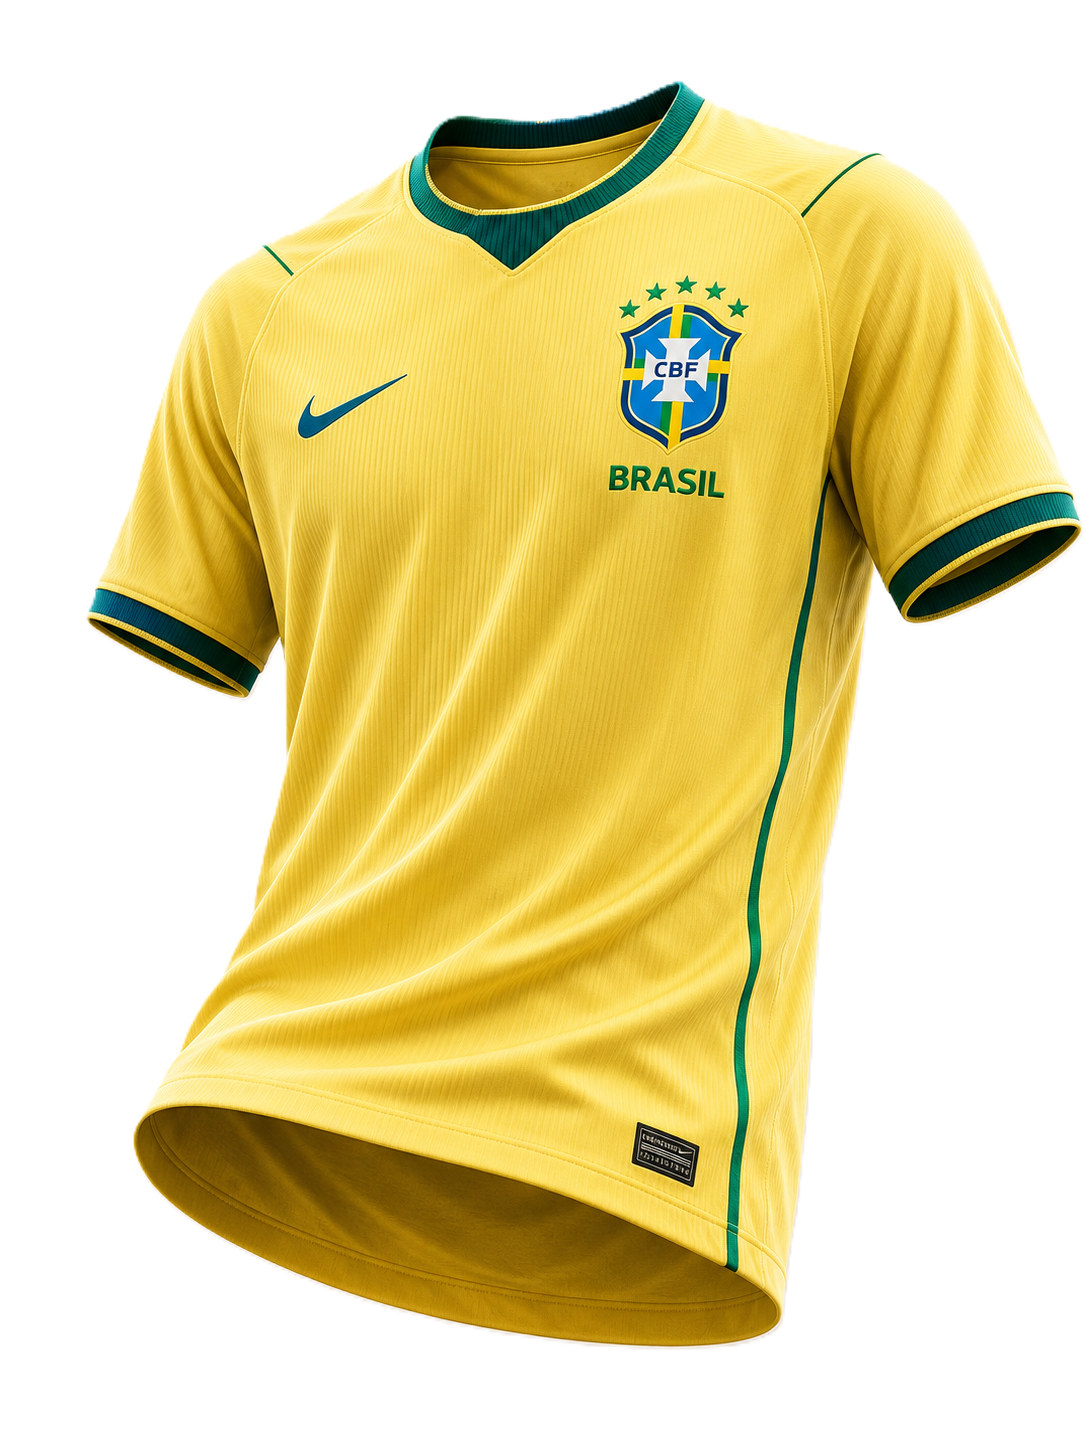
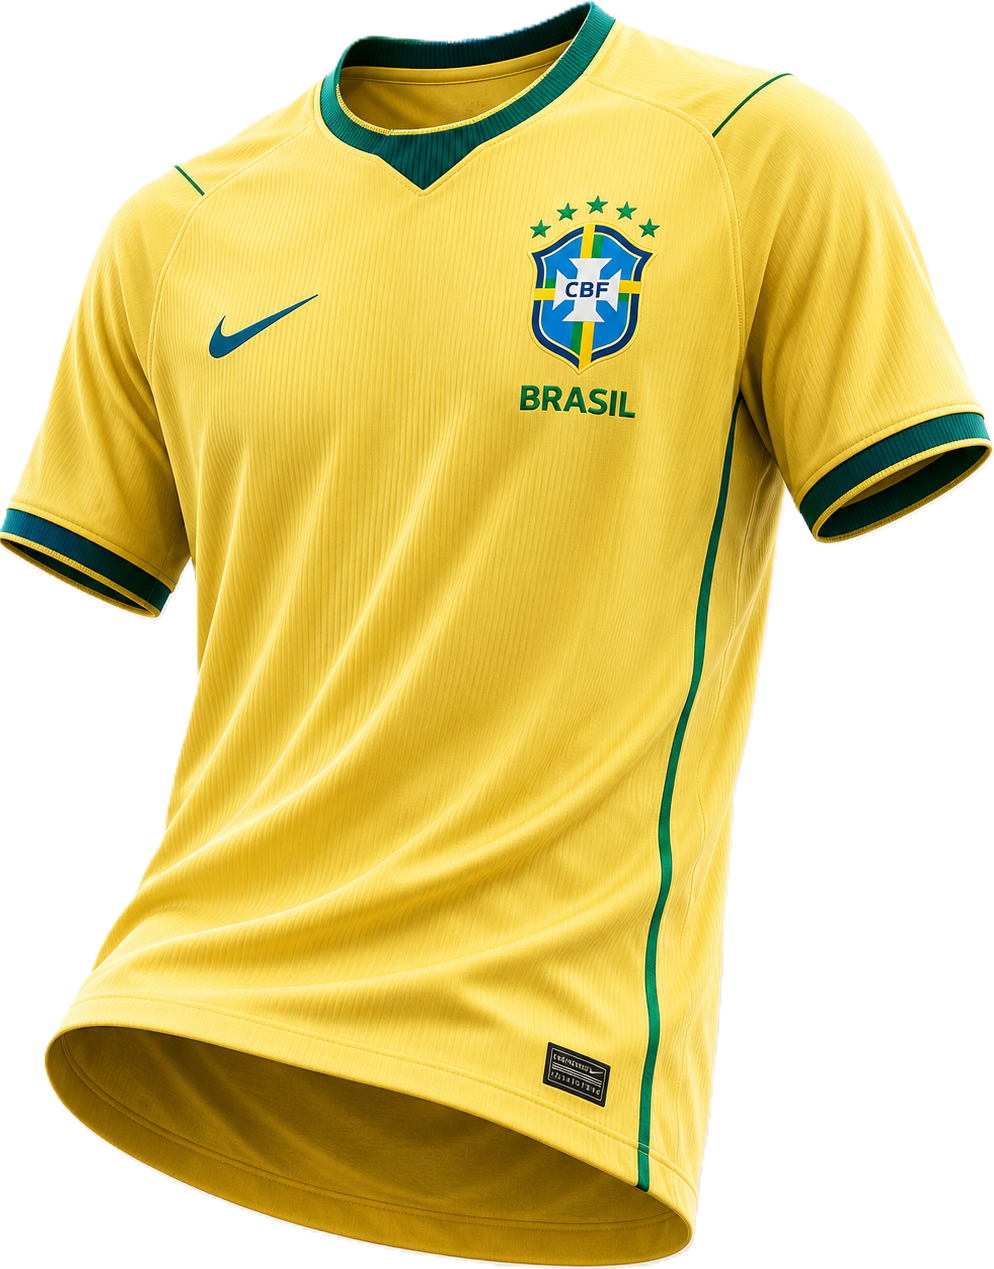
Camiseta preta

diff --git a/css/style.css b/css/style.css
@@ -560,9 +560,9 @@ img {
 
   /* Move a camiseta apenas para baixo */
   .hero-shirt {
-    top: 120px;
-    right: -5px;
-    width: min(650px, 50vw);
+    top: 180px;
+    right: -25px;
+    width: min(950px, 80vw);
   }
 
   /* Selo acompanha melhor a nova posição da camiseta */
@@ -638,7 +638,7 @@ img {
   left: 35px;
   top: auto;
   bottom: -20px;
-  width: min(575px, 49vw);
+  width: min(475px, 49vw);
   filter: drop-shadow(0 28px 32px rgba(0, 0, 0, 0.48));
   animation: none !important;
   transform: none !important;
@@ -759,3 +759,182 @@ img {
     inset 0 1px 0 rgba(255, 255, 255, 0.42);
 }
 
+/* Camisa Preta */
+
+.black-shirt-section {
+  position: relative;
+  overflow: hidden;
+  min-height: 300px;
+  background: #090909;
+}
+
+.black-shirt-section::before {
+  content: "";
+  position: absolute;
+  inset: 0;
+  background-image: url("../assets/fundo-preto.png");
+  background-repeat: no-repeat;
+  background-size: cover;
+  background-position: center center;
+  z-index: 0;
+}
+
+.black-shirt-section::after {
+  content: "";
+  position: absolute;
+  inset: 0;
+  background:
+    linear-gradient(
+      90deg,
+      rgba(0, 0, 0, 0.1) 0%,
+      rgba(0, 0, 0, 0.12) 38%,
+      rgba(0, 0, 0, 0.24) 100%
+    );
+  z-index: 1;
+  pointer-events: none;
+}
+
+.black-shirt-content {
+  position: relative;
+  z-index: 2;
+  min-height: 300px;
+  display: grid;
+  grid-template-columns: 0.95fr 1.05fr;
+  align-items: stretch;
+  gap: 28px;
+}
+
+.black-shirt-text {
+  position: relative;
+  z-index: 4;
+  max-width: 420px;
+  padding-top: 38px;
+  padding-left: 18px;
+}
+
+.black-shirt-text h2 {
+  font-size: clamp(36px, 3.5vw, 56px);
+  line-height: 0.95;
+  font-weight: 900;
+  color: #ffffff;
+  text-transform: uppercase;
+  letter-spacing: 4px;
+  font-style: italic;
+  margin-bottom: 12px;
+  text-shadow: 0 8px 18px rgba(0, 0, 0, 0.55);
+}
+
+.black-stars {
+  display: flex;
+  align-items: center;
+  gap: 14px;
+  margin-bottom: 18px;
+}
+
+.black-stars span {
+  color: #ffd400;
+  font-size: 17px;
+  letter-spacing: 4px;
+  line-height: 1;
+  text-shadow: 0 0 12px rgba(255, 212, 0, 0.45);
+}
+
+.black-stars strong {
+  color: #ffffff;
+  font-size: 16px;
+  font-weight: 900;
+  text-transform: uppercase;
+  letter-spacing: 1px;
+}
+
+.black-shirt-text p {
+  max-width: 350px;
+  color: #ffffff;
+  font-size: 17px;
+  line-height: 1.35;
+  font-weight: 600;
+  margin-bottom: 24px;
+}
+
+.black-benefits {
+  display: flex;
+  align-items: center;
+  gap: 28px;
+  margin-bottom: 26px;
+}
+
+.black-benefits div {
+  display: flex;
+  align-items: center;
+  gap: 8px;
+}
+
+.black-benefits span {
+  font-size: 25px;
+  filter: grayscale(1) brightness(4);
+}
+
+.black-benefits strong {
+  display: block;
+  color: #ffffff;
+  font-size: 10px;
+  line-height: 1;
+  font-weight: 900;
+  text-transform: uppercase;
+}
+
+.black-benefits small {
+  display: block;
+  color: rgba(255, 255, 255, 0.82);
+  font-size: 9px;
+  font-weight: 800;
+  text-transform: uppercase;
+}
+
+.black-button {
+  width: fit-content;
+  min-width: 255px;
+  height: 55px;
+  padding: 0 32px;
+  border-radius: 7px;
+  background: linear-gradient(180deg, #ffd829, #e4a900);
+  box-shadow:
+    0 14px 28px rgba(255, 195, 0, 0.22),
+    inset 0 1px 0 rgba(255, 255, 255, 0.42);
+  display: inline-flex;
+  align-items: center;
+  justify-content: center;
+  gap: 12px;
+  color: #06121f;
+  font-size: 15px;
+  font-weight: 900;
+  text-transform: uppercase;
+  transition: 0.25s ease;
+}
+
+.black-button:hover {
+  transform: translateY(-3px);
+  box-shadow:
+    0 18px 36px rgba(255, 195, 0, 0.34),
+    inset 0 1px 0 rgba(255, 255, 255, 0.42);
+}
+
+.black-shirt-product {
+  position: relative;
+  height: 300px;
+  min-height: 300px;
+  align-self: end;
+  overflow: visible;
+}
+
+.black-shirt-img {
+  position: absolute;
+  left: 10px;
+  right: auto;
+  top: auto;
+  bottom: -34px;
+  width: min(540px, 52vw);
+  filter: drop-shadow(0 28px 34px rgba(0, 0, 0, 0.55));
+  animation: none !important;
+  transform: none !important;
+}

diff --git a/index.html b/index.html
@@ -179,6 +179,63 @@
   </div>
 </section>
 
+
+<section class="black-shirt-section">
+  <div class="container black-shirt-content">
+
+    <div class="black-shirt-text">
+      <div class="black-title-row">
+        <h2>Brasil Preta</h2>
+      </div>
+
+      <div class="black-stars">
+        <span>★★★★★</span>
+        <strong>Premium</strong>
+      </div>
+
+      <p>
+        Estilo, atitude e performance.
+        Ideal para quem veste o Brasil
+        com orgulho em qualquer ocasião.
+      </p>
+
+      <div class="black-benefits">
+        <div>
+          <span>🌊</span>
+          <strong>Leve e</strong>
+          <small>confortável</small>
+        </div>
+
+        <div>
+          <span>⭐</span>
+          <strong>Acabamento</strong>
+          <small>premium</small>
+        </div>
+
+        <div>
+          <span>🛡</span>
+          <strong>Design</strong>
+          <small>exclusivo</small>
+        </div>
+      </div>
+
+      <a href="#combos" class="black-button">
+        <span>👕</span>
+        Ver detalhes
+      </a>
+    </div>
+
+    <div class="black-shirt-product">
+      <img
+        class="black-shirt-img"
+        src="assets/camiseta-preta-cortada.png"
+        alt="Camisa Brasil Preta"
+      >
+    </div>
+
+  </div>
+</section>
+
   </main>
 
   <script src="js/script.js"></script>
